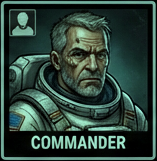
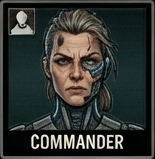
More commander images

diff --git a/src/__tests__/lib/Commander.test.ts b/src/__tests__/lib/Commander.test.ts
@@ -16,7 +16,7 @@ describe('Commander', () => {
       expect(commander.statBonuses).toHaveLength(1);
       expect(commander.statBonuses[0]).toEqual({ stat: 'shipSpeed', value: 0.5 });
       expect(commander.imageId).toBeGreaterThanOrEqual(0);
-      expect(commander.imageId).toBeLessThanOrEqual(9);
+      expect(commander.imageId).toBeLessThanOrEqual(17);
     });
 
     test('withStats_threeBonuses_createsCommander', () => {
@@ -59,7 +59,7 @@ describe('Commander', () => {
       // 0.35 rounds to 0.4 (nearest 0.1)
       expect(commander.statBonuses[0].value).toBe(0.4);
       expect(commander.imageId).toBeGreaterThanOrEqual(0);
-      expect(commander.imageId).toBeLessThanOrEqual(9);
+      expect(commander.imageId).toBeLessThanOrEqual(17);
     });
 
     test('withStats_extremeValues_accepted', () => {
@@ -70,14 +70,14 @@ describe('Commander', () => {
       expect(commander.statBonuses[0].value).toBe(0.1);
       expect(commander.statBonuses[1].value).toBe(1.0);
       expect(commander.imageId).toBeGreaterThanOrEqual(0);
-      expect(commander.imageId).toBeLessThanOrEqual(9);
+      expect(commander.imageId).toBeLessThanOrEqual(17);
     });
 
     test('withStats_itemTypeIsCommander', () => {
       const commander = Commander.withStats('Test', [{ stat: 'shipSpeed', value: 0.5 }]);
       expect(commander.itemType).toBe('commander');
       expect(commander.imageId).toBeGreaterThanOrEqual(0);
-      expect(commander.imageId).toBeLessThanOrEqual(9);
+      expect(commander.imageId).toBeLessThanOrEqual(17);
     });
   });
 
@@ -117,7 +117,7 @@ describe('Commander', () => {
       const commander = Commander.random('Captain Nova');
       expect(commander.name).toBe('Captain Nova');
       expect(commander.imageId).toBeGreaterThanOrEqual(0);
-      expect(commander.imageId).toBeLessThanOrEqual(9);
+      expect(commander.imageId).toBeLessThanOrEqual(17);
     });
 
     test('random_bonusCountIsOneToThree', () => {
@@ -192,7 +192,7 @@ describe('Commander', () => {
         const n = commander.statBonuses.length as 1 | 2 | 3;
         counts[n]++;
         expect(commander.imageId).toBeGreaterThanOrEqual(0);
-        expect(commander.imageId).toBeLessThanOrEqual(9);
+        expect(commander.imageId).toBeLessThanOrEqual(17);
       }
       // 60% ± 5% for 1 stat
       expect(counts[1] / iterations).toBeGreaterThan(0.55);
@@ -231,7 +231,7 @@ describe('Commander', () => {
       const data: any = { itemType: 'commander', name: 'NoPic', statBonuses: [{ stat: 'shipSpeed', value: 0.5 }] };
       const cmd = Commander.fromJSON(data);
       expect(cmd.imageId).toBeGreaterThanOrEqual(0);
-      expect(cmd.imageId).toBeLessThanOrEqual(9);
+      expect(cmd.imageId).toBeLessThanOrEqual(17);
     });
   });
 

diff --git a/src/lib/server/inventory/Commander.ts b/src/lib/server/inventory/Commander.ts
@@ -59,7 +59,7 @@ export interface CommanderStatBonus {
 export interface CommanderData {
   readonly itemType: 'commander';
   readonly name: string;
-  /** Image identifier 0..9 (ten possible portraits) */
+  /** Image identifier 0..17 (eighteen possible portraits) */
   readonly imageId: number;
   /** One to three stat bonuses */
   readonly statBonuses: CommanderStatBonus[];
@@ -92,7 +92,7 @@ export class Commander {
    * Create a commander with explicitly provided stats.
    * @param name    Display name of the commander.
    * @param bonuses 1–3 stat bonuses. Throws if out of range or values invalid.
-   * @param imageId Optional image identifier (0..9). If omitted a random id is assigned.
+   * @param imageId Optional image identifier (0..17). If omitted a random id is assigned.
    */
   static withStats(name: string, bonuses: CommanderStatBonus[], imageId?: number): Commander {
     if (bonuses.length < 1 || bonuses.length > 3) {
@@ -105,9 +105,9 @@ export class Commander {
       }
     }
     // ensure valid image id
-    const finalImageId = imageId !== undefined ? imageId : Math.floor(Math.random() * 10);
-    if (finalImageId < 0 || finalImageId > 9) {
-      throw new Error(`imageId must be 0..9, got ${finalImageId}`);
+    const finalImageId = imageId !== undefined ? imageId : Math.floor(Math.random() * 18);
+    if (finalImageId < 0 || finalImageId > 17) {
+      throw new Error(`imageId must be 0..17, got ${finalImageId}`);
     }
     return new Commander(
       name,
@@ -148,7 +148,7 @@ export class Commander {
       imageId = result.imageId;
     } else {
       // explicit name, assign any picture id as before
-      imageId = Math.floor(rng() * 10);
+      imageId = Math.floor(rng() * 18);
     }
 
     return new Commander(finalName, imageId, bonuses);
@@ -174,8 +174,8 @@ export class Commander {
     const middle = MIDDLE_NAMES[Math.floor(rng() * MIDDLE_NAMES.length)];
     const last = LAST_NAMES[Math.floor(rng() * LAST_NAMES.length)];
 
-    // choose an index 0..4 then apply parity
-    const idx = Math.floor(rng() * 5);
+    // choose an index 0..8 then apply parity
+    const idx = Math.floor(rng() * 9);
     const imageId = isMale ? idx * 2 : idx * 2 + 1;
     // middle names are single letters; include a dot after the initial
     return { name: `${first} ${middle}. ${last}`, imageId };
